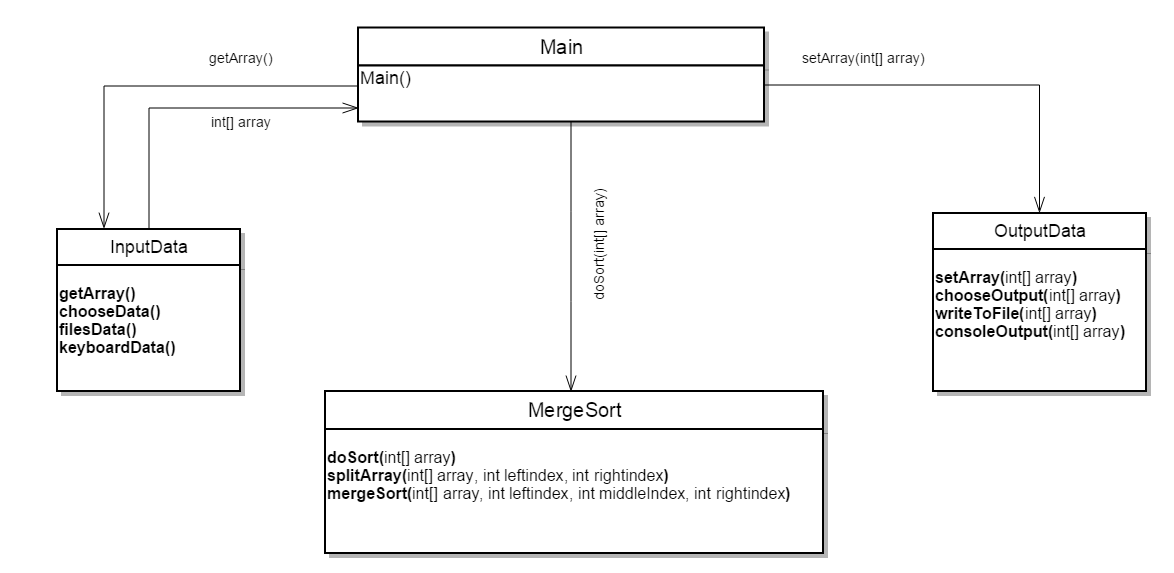
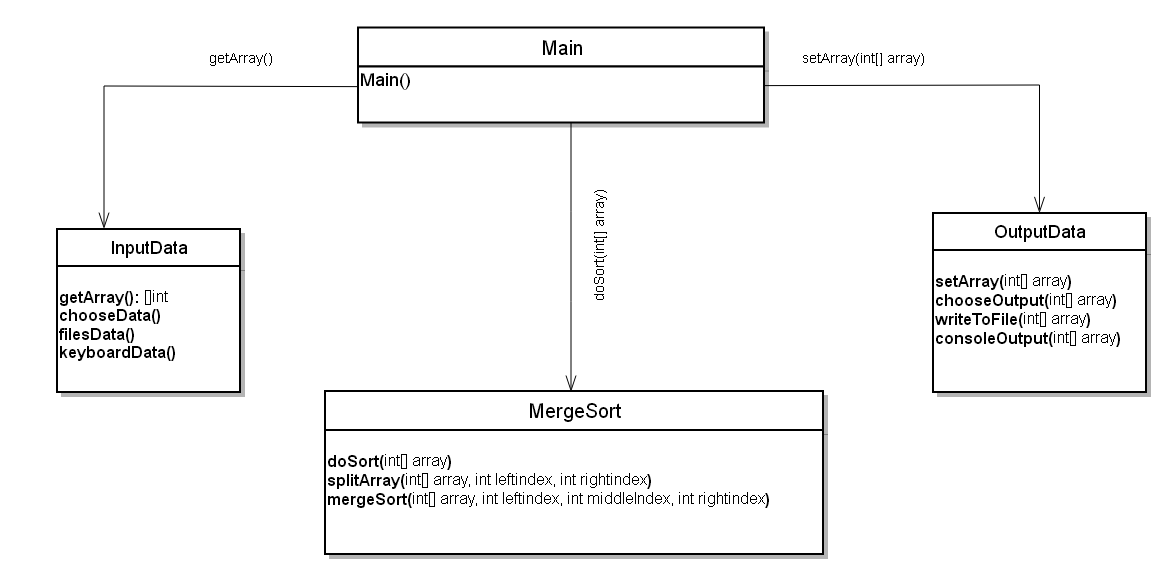
add flowchart fix UML fix InputData

diff --git a/src/main/java/com/mergesort/InputData.java b/src/main/java/com/mergesort/InputData.java
@@ -51,23 +51,22 @@ public class InputData {
             System.out.println("Something was happend! :-(");
         }
 
-        Integer[] arrayInt = list.toArray(new Integer[list.size()]);
-        array = new int[arrayInt.length];
+        array = new int[list.size()];
         for (int i = 0; i < array.length; i++) {
-            array[i] = arrayInt[i];
+            array[i] = list.get(i);
         }
     }
 
     private static void keyboardData() {
         Scanner in = new Scanner(System.in);
         int arrayLength = 0;
-        boolean isLengthInCorrect = true;
-        while (isLengthInCorrect) {
+        boolean isLengthIncorrect = true;
+        while (isLengthIncorrect) {
             System.out.print(" Enter the length of the array: ");
             try {
                 String input = in.nextLine();
                 arrayLength = Integer.parseInt(input);
-                if (arrayLength > 0) isLengthInCorrect = false;
+                if (arrayLength > 0) isLengthIncorrect = false;
                 else {
                     System.out.print(" Length cannot be \"0\" or negative, try again please.");
                 }
@@ -79,12 +78,12 @@ public class InputData {
         array = new int[arrayLength];
 
         for (int i = 0; i < arrayLength; i++) {
-            boolean isElementInCorrect = true;
-            while (isElementInCorrect) {
+            boolean isElementIncorrect = true;
+            while (isElementIncorrect) {
                 try {
                     String input = in.nextLine();
                     array[i] = Integer.parseInt(input);
-                    isElementInCorrect = false;
+                    isElementIncorrect = false;
                 } catch (NumberFormatException e) {
                     System.out.print(" Your entered not an \"Integer\" length, try again please.");
                 }
